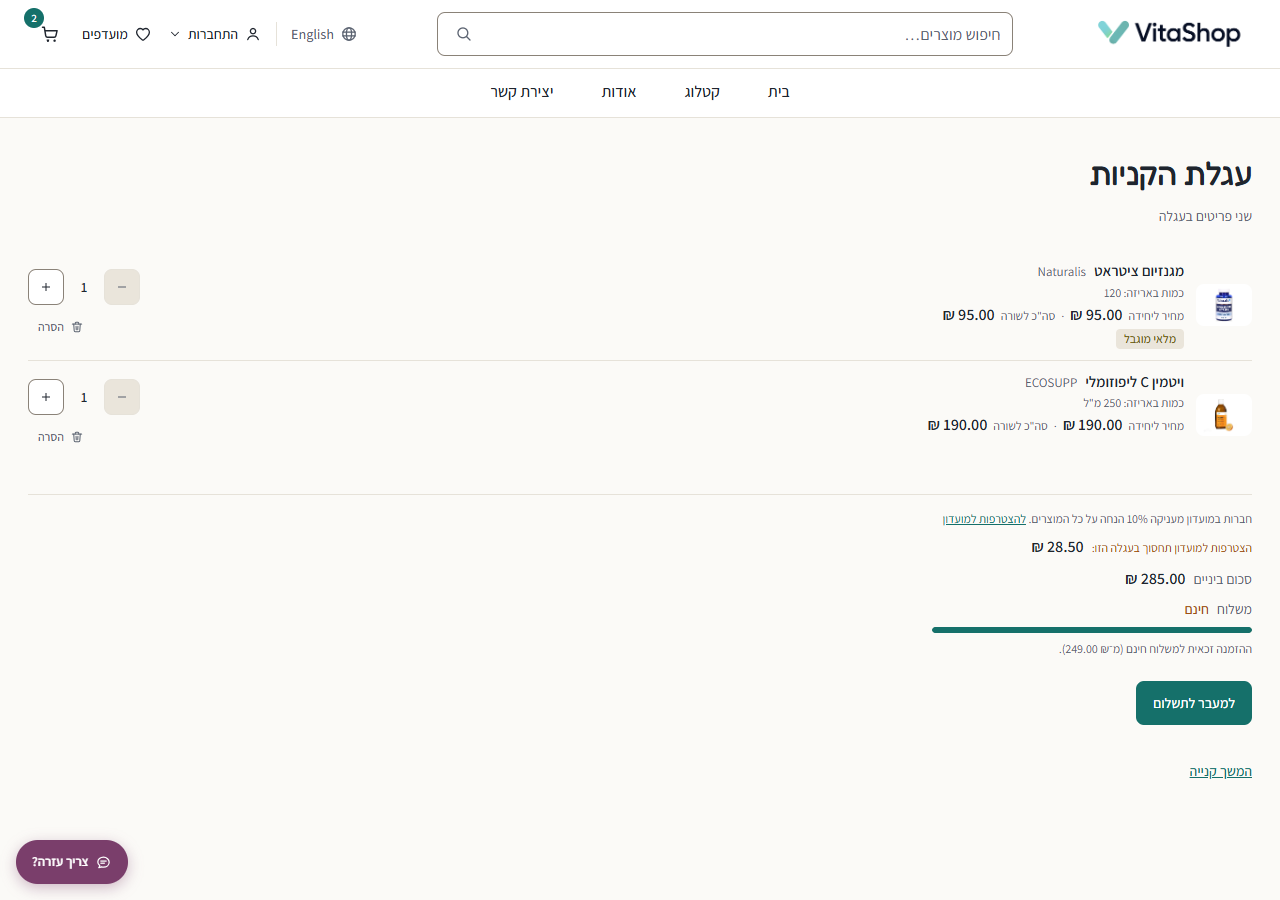
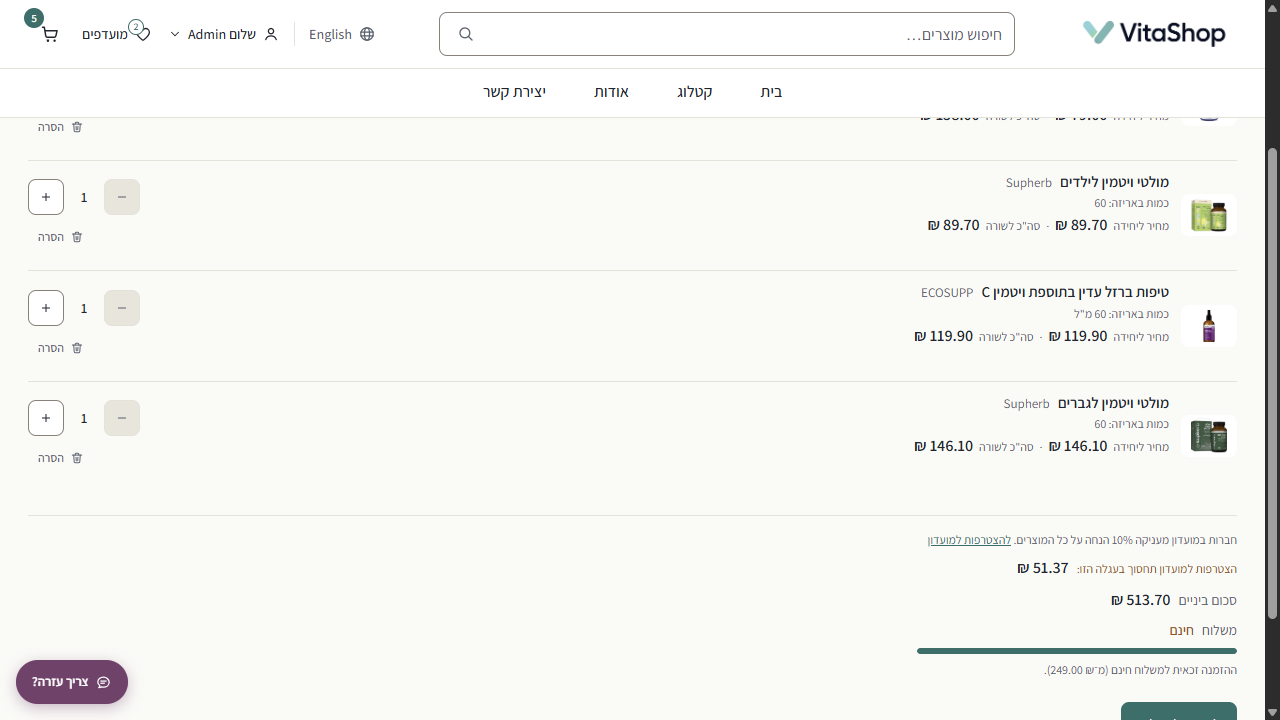
docs(readme): user-captured signed-in screenshots — checkout, cart page, drawer, favourites
The four surfaces the UI refresh left auth-walled, captured by the user
in their signed-in browser (1280×720, Hebrew): checkout.png now shows
the area-4 two-column layout with the sticky receipt; cart.png the
area-3 page with full rows, club savings and the free-shipping bar; and
a NEW pair joins The shop section — the compact cart drawer (DEC-112's
"keep shopping" role) and the area-6 favourites grid with its count
line. The same checkout capture replaced צילום 3 in the אפיון document
(outside the repo).

diff --git a/README.md b/README.md
@@ -122,6 +122,12 @@ The Hebrew (RTL) interface; every screen also ships in English (LTR).
 </p>
 <p align="center"><sub><b>Product page</b> — brand, ingredients, warnings, club pricing&emsp;·&emsp;<b>Cart</b> — live stock checks, server-side totals</sub></p>
 
+<p align="center">
+  <img src="docs/screenshots/cart-drawer.png" width="49%" alt="Cart drawer">
+  <img src="docs/screenshots/favourites.png" width="49%" alt="Favourites">
+</p>
+<p align="center"><sub><b>Cart drawer</b> — quick "keep shopping" glance after every add&emsp;·&emsp;<b>Favourites</b> — card-sized grid, count line, one-tap add</sub></p>
+
 ### Checkout
 
 <p align="center">
